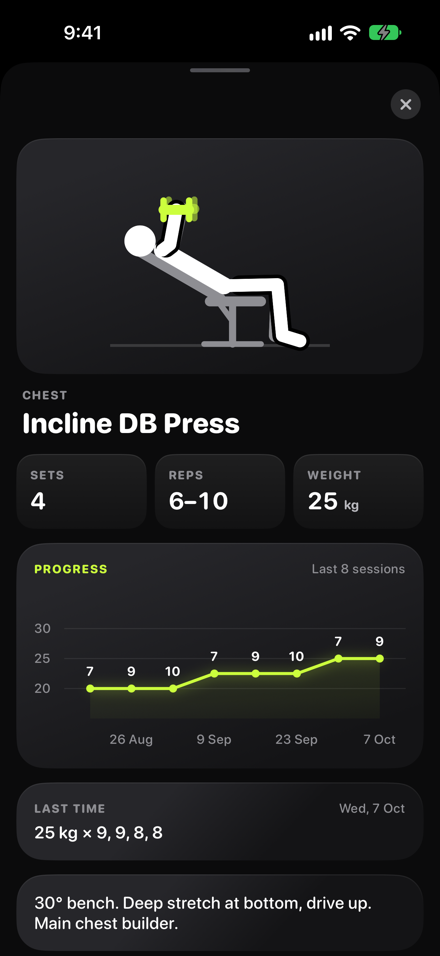
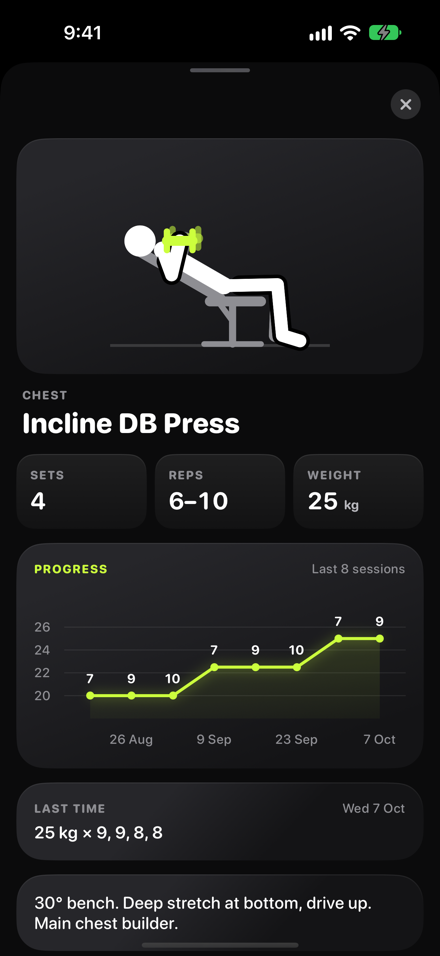
iPhone build 11: final screenshots, STATUS

diff --git a/docs/STATUS.md b/docs/STATUS.md
@@ -4,7 +4,9 @@ Kept by the builder session ("SpotMe - Frontend (Mac Studio)"). Read by `/next`.
 
 ## Now
 
-**iPhone build 1 (build 11), branch `iphone-build-11`, not pushed.** The Designer's handoff `design/handoff/iphone-1/BUILD.md` (13 Oct): Swap on the phone first, then every approved iPhone screen in look B, with watch build 10 inside. Done so far: Today in look B (7.1–7.4, 7.6), the exercise sheet with the progress chart (7.5, 7.7), the Swap sheet (7.8) and the live sync to the watch (checked on paired simulators: Today list, a set screen with nothing logged, a break; screenshots in `design/built/iphone-1/sync/`). Start workout on the phone asks the watch to start (`startWatchApp`; the watch handles it like the complication's start link). Still to build: History and Body (8.x), Plan and Rearrange days (9.x), Settings (10.1), and the section 9 check of Swap on the owner's watch.
+**iPhone build 1 (build 11) is built, on branch `iphone-build-11`, not pushed.** The Designer's handoff `design/handoff/iphone-1/BUILD.md` (13 Oct): Swap on the phone first, then every approved iPhone screen in look B, with watch build 10 inside. All of it is in: Today (7.1–7.6), the exercise sheet with the progress chart (7.5, 7.7), the Swap sheet (7.8) with the live sync to the watch (checked on paired simulators: Today list, a set screen with nothing logged, a break; frames in `design/built/iphone-1/sync/`), History as sessions with one session and one exercise (8.1–8.3, 8.7, 8.2), Body with ten points and the measurement sheet (8.4–8.6, 8.8), Plan with Rearrange days (9.1–9.6, an agent built these on `iphone-plan-settings`, merged) and Settings (10.1). Screenshots named by board are in `design/built/iphone-1/`. Tests: `swift test` 219 passed; the watch UI tests (21) passed; the iOS scheme (with the watch app) builds in Debug and Release.
+
+Start workout on the phone asks the watch to start (`HKHealthStore.startWatchApp`; the watch handles it like the complication's start link): only a real watch can show it works.
 
 Phone screenshots: `Scripts/phone-shot.sh <Board> <launch args>` on the "SpotMe iPhone 16 Pro Max" simulator (its own, paired with "SpotMe Watch 46mm", so other sessions' apps stay out of the shots).
 
@@ -14,6 +16,10 @@ Phone screenshots: `Scripts/phone-shot.sh <Board> <launch args>` on the "SpotMe 
 2. **iPhone handoff** (look B, Today screens approved; the Swap UI on the phone). Comes from the Designer after build 9.
 
 ## Waiting
+
+- The owner's OK to push `iphone-build-11` so the Designer can check the screenshots (and then to merge it to `main`).
+- The owner's try-out of build 11 on the phone and watch: Swap from the phone (the watch changes within a second or two), Start workout from the phone, Rearrange days (the watch's Today and complication follow), the body log keeps his arm and waist (the phone logs how many rows at first launch, `bodyMigrationReport`).
+- Which build is on the owner's watch: Swap is in watch builds 9 and 10 only (swipe left on an open row in Today; the small figure on a set or break screen → How → Swap exercise).
 
 - The owner's edge-timer photo.
 - The owner's check on the real watch: the effort shows on the workout in Fitness (the watch asks for that Health permission once more), and the controls page icons no longer start small and grow.
